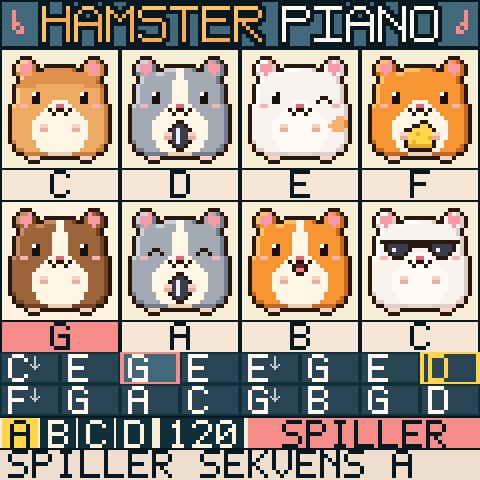
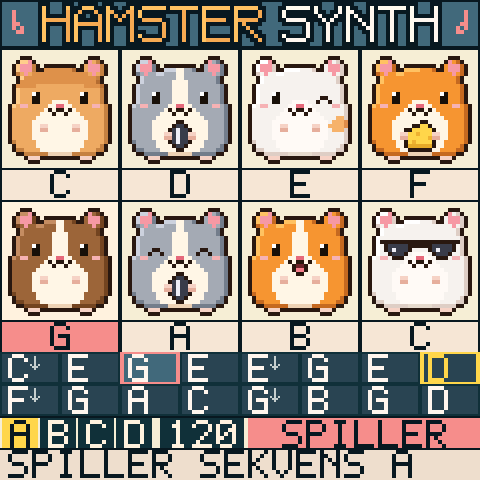
Hamster Synth: the name, not Hamster Piano; HAMSTERCORE as it was
The firmware, its logo (SYNTH in the page's letters, a Y added), the update
loader's screen, the package (build/hamstersynth.fwsc, identity FM-1_902 as
before), the demo and the docs (docs/HAMSTERSYNTH.md). Where the original web
page is meant it keeps its name, Hamster Piano.

Claude-Session: https://claude.ai/code/session_01MBzS5fpf3Tqj1GwuaURyLm

Changed region(s): [[0.5625, 0.0, 0.9375, 0.0938]]

diff --git a/tools/ham_ref.js b/tools/ham_ref.js
@@ -1,5 +1,5 @@
 // SPDX-License-Identifier: GPL-3.0-only
-// Hamster Piano's reference sound: the original web page renders each case of tests/ham/cases.json itself (its own
+// Hamster Synth's reference sound: the original web page (Hamster Piano) renders each case of tests/ham/cases.json itself (its own
 // WAV export, an OfflineAudioContext), in Chromium (Playwright). What is kept of the WAVs is their band energies
 // (tests/ham/parity.py ref DIR -> tests/ref/ham_features.json); the page itself is not in this repository.
 //

diff --git a/firmware/gen/ham_art.h b/firmware/gen/ham_art.h
@@ -1,5 +1,5 @@
 /* SPDX-License-Identifier: GPL-3.0-only */
-/* Hamster Piano's pictures. Made by tools/gen_ham_art.py of tools/ham_sprites.py: do not edit. */
+/* Hamster Synth's pictures. Made by tools/gen_ham_art.py of tools/ham_sprites.py: do not edit. */
 #pragma once
 #include <stdint.h>
 
@@ -37,8 +37,8 @@ static const uint8_t DRUM_SPR[4][DRUM_W * DRUM_H] = {
     {255,255,255,255,255,255,255,255,255,255,255,255,255,255,255,255,255,255,255,255,255,255,255,255,255,255,255,255,255,255,255,255,255,255,255,255,255,255,255,255,255,255,255,255,255,255,255,255,255,255,255,255,255,255,255,255,255,255,255,255,255,255,0,255,255,255,255,255,255,255,255,255,255,255,255,255,255,255,255,255,255,255,255,255,255,255,255,255,255,255,255,255,255,255,255,255,255,255,255,255,255,255,255,255,255,0,255,255,255,255,255,255,255,255,255,255,255,0,19,0,255,255,255,255,255,255,255,255,255,255,255,255,255,255,255,255,255,255,255,255,255,255,255,255,255,255,255,255,255,255,255,255,255,255,255,255,255,255,255,255,0,19,0,255,255,255,255,255,255,255,255,255,255,255,0,19,0,255,255,255,255,255,255,255,255,255,255,255,255,255,255,255,255,255,255,255,255,255,255,255,255,255,255,255,255,255,255,255,255,255,255,255,255,255,255,0,19,0,255,255,255,255,255,255,255,255,255,255,255,255,0,19,0,255,255,255,255,255,255,255,255,255,255,255,255,255,255,255,255,255,255,255,255,255,255,255,255,255,255,255,255,255,255,255,255,255,255,255,255,255,255,0,19,0,255,255,255,255,255,255,255,255,255,255,255,255,255,0,19,0,255,255,255,255,255,255,255,255,255,255,255,255,255,255,255,255,255,255,255,255,255,255,255,255,255,255,255,255,255,255,255,255,255,255,255,255,0,19,0,255,255,255,255,255,255,255,255,255,255,255,255,255,255,0,19,0,255,255,255,255,255,255,255,255,0,0,0,255,255,255,255,255,255,255,255,255,255,255,255,255,255,0,0,0,255,255,255,255,255,255,255,255,0,19,0,255,255,255,255,255,255,255,255,255,255,255,255,255,255,255,0,19,0,255,255,255,255,255,255,0,1,1,2,0,255,255,255,255,255,255,255,255,255,255,255,255,0,2,3,4,0,255,255,255,255,255,255,0,19,0,255,255,255,255,255,255,255,255,255,255,255,255,255,255,255,255,255,0,0,0,0,255,255,255,0,1,2,2,2,4,0,255,0,0,0,0,0,0,0,0,255,0,3,2,2,2,4,0,255,255,255,0,0,0,0,255,255,255,255,255,255,255,255,255,255,255,255,255,255,255,255,255,255,0,3,16,3,0,255,255,0,1,2,2,2,4,0,0,1,1,1,1,3,3,3,4,0,0,3,2,2,2,4,0,255,255,0,3,16,3,0,255,255,255,255,255,255,255,255,255,255,255,255,255,255,255,255,255,255,0,16,16,16,0,255,255,0,4,3,2,3,3,1,1,3,3,3,3,3,3,3,3,3,3,3,3,2,3,4,0,255,255,0,16,16,16,0,255,255,255,255,255,255,255,255,255,255,255,255,255,255,255,255,255,255,0,3,16,1,0,255,255,255,0,1,3,3,3,3,3,3,3,3,3,3,3,3,3,3,3,3,3,3,4,0,255,255,255,0,3,16,3,0,255,255,255,255,255,255,255,255,255,255,255,255,255,255,255,255,255,255,255,0,3,1,1,0,255,255,0,1,3,3,3,3,3,3,3,3,3,3,3,3,3,3,3,3,3,3,4,0,255,255,0,3,3,3,0,255,255,255,255,255,255,255,255,255,255,255,255,255,255,255,255,255,255,255,255,255,0,1,1,3,0,0,1,3,3,3,3,3,3,3,3,3,3,3,3,3,3,3,3,3,3,3,3,4,0,0,3,3,3,0,255,255,255,255,255,255,255,255,255,255,255,255,255,255,255,255,255,255,255,255,255,255,255,0,1,3,0,0,1,3,3,3,3,3,3,3,3,3,3,3,3,3,3,3,3,3,3,3,3,4,0,0,3,3,0,255,255,255,255,255,255,255,255,255,255,255,255,255,255,255,255,255,255,255,255,255,255,255,255,255,0,3,3,0,1,3,3,3,5,6,3,3,3,3,3,3,3,3,3,3,5,6,3,3,3,4,0,1,3,0,255,255,255,255,255,255,255,255,255,255,255,255,255,255,255,255,255,255,255,255,255,255,255,255,255,255,0,3,3,3,0,3,3,3,6,6,3,3,3,3,3,3,3,3,3,3,6,6,3,3,3,0,1,1,3,0,255,255,255,255,0,255,255,255,255,255,255,255,255,255,255,255,255,255,255,255,255,255,255,255,255,255,255,0,3,3,0,3,3,3,6,6,3,3,3,7,7,7,7,3,3,3,6,6,3,3,3,0,1,1,0,255,255,255,255,0,0,0,0,255,255,255,255,255,255,255,255,255,255,255,255,255,255,0,255,255,255,255,255,255,0,3,3,0,8,3,3,3,3,3,7,7,9,9,7,7,3,3,3,3,3,8,0,1,1,0,0,0,0,0,0,10,10,10,10,0,0,0,0,0,255,255,255,255,255,255,255,255,0,0,0,0,255,255,255,255,0,3,3,0,3,3,3,3,3,7,0,7,0,0,7,0,7,3,3,3,3,3,0,1,1,0,0,11,11,11,11,11,11,11,11,11,11,11,11,0,255,255,255,0,0,0,0,0,10,10,10,10,0,0,0,0,0,0,0,0,3,3,3,3,7,7,7,0,12,12,0,7,7,7,3,3,3,3,0,0,0,0,0,0,0,0,0,13,13,13,13,0,0,0,0,0,255,255,255,0,11,11,11,11,11,11,11,11,11,11,11,11,0,3,3,3,3,3,3,7,7,7,7,0,14,14,0,7,7,7,7,3,3,3,3,3,4,0,255,255,255,255,255,0,0,0,0,255,255,255,255,255,255,255,255,0,0,0,0,0,13,13,13,13,0,0,0,0,0,3,3,3,3,3,7,7,7,7,7,7,0,0,7,7,7,7,7,7,3,3,3,3,4,0,255,255,255,255,255,0,15,0,255,255,255,255,255,255,255,255,255,255,255,255,255,255,0,0,0,0,255,255,255,255,0,3,3,3,3,3,7,7,16,16,7,7,7,7,7,7,16,16,7,7,3,3,3,3,4,0,255,255,255,255,255,0,15,0,255,255,255,255,255,255,255,255,255,255,255,255,255,255,0,15,0,255,255,255,255,255,0,3,3,3,3,3,7,7,17,0,0,0,0,0,0,0,0,17,7,7,3,3,3,3,4,0,255,255,255,255,255,0,15,0,255,255,255,255,255,255,255,255,255,255,255,255,255,255,0,15,0,255,255,255,255,255,0,3,3,3,3,3,7,0,0,15,15,15,18,18,15,15,15,0,0,7,3,3,3,3,4,0,255,255,255,255,255,0,15,0,255,255,255,255,255,255,255,255,255,255,255,255,255,255,0,15,0,0,0,0,0,0,0,0,0,3,3,3,0,15,15,18,18,7,7,7,7,18,18,15,15,0,3,3,3,0,0,0,0,0,0,0,0,0,15,0,255,255,255,255,255,255,255,255,255,255,255,255,255,255,0,15,0,20,20,20,20,20,20,20,20,0,3,0,15,18,18,7,7,7,7,7,7,7,7,18,18,15,0,3,0,20,20,20,20,20,20,20,20,0,15,0,255,255,255,255,255,255,255,255,255,255,255,255,255,255,0,15,0,15,15,15,15,15,15,15,15,0,0,15,18,7,7,7,7,7,7,7,7,7,7,7,7,18,15,0,0,15,15,15,15,15,15,15,15,0,15,0,255,255,255,255,255,255,255,255,255,255,255,255,255,255,0,15,0,21,21,22,22,22,22,22,23,0,0,15,18,7,7,7,22,7,7,7,7,22,7,7,7,18,15,0,0,21,21,22,22,22,22,22,23,0,15,0,255,255,255,255,255,255,255,255,255,255,255,255,255,255,0,15,0,21,21,22,22,22,22,22,23,0,15,18,7,7,7,7,7,7,22,22,7,7,7,7,7,7,18,15,0,21,21,22,22,22,22,22,23,0,15,0,255,255,255,255,255,255,255,255,255,255,255,255,255,255,0,15,0,21,21,22,22,22,22,22,23,0,15,18,7,7,7,22,7,7,7,7,7,7,22,7,7,7,18,15,0,21,21,22,22,22,22,22,23,0,15,0,255,255,255,255,255,255,255,255,255,255,255,255,255,255,0,15,0,21,21,22,22,22,22,22,23,0,15,7,7,7,7,7,7,22,22,22,22,7,7,7,7,7,24,15,0,21,21,22,22,22,22,22,23,0,15,0,255,255,255,255,255,255,255,255,255,255,255,255,255,255,0,15,0,15,15,15,15,15,15,15,15,0,18,7,7,7,7,7,22,22,22,22,22,22,7,7,7,24,24,18,0,15,15,15,15,15,15,15,15,0,15,0,255,255,255,255,255,255,255,255,255,255,255,255,255,255,0,15,0,0,0,0,0,0,0,0,0,0,18,7,7,7,7,7,22,22,22,22,22,22,7,7,24,24,24,18,0,0,0,0,0,0,0,0,0,0,15,0,255,255,255,255,255,255,255,255,255,255,255,255,255,255,0,15,0,255,255,0,18,0,255,255,255,0,15,7,7,7,7,7,7,22,22,22,22,7,7,24,24,24,24,15,0,255,255,255,0,18,0,255,255,0,15,0,255,255,255,255,255,255,255,255,255,255,255,255,255,255,0,15,0,255,255,0,18,0,255,255,255,0,15,18,7,7,7,7,7,7,7,7,7,7,24,24,24,24,18,15,0,255,255,255,0,18,0,255,255,0,15,0,255,255,255,255,255,255,255,255,255,255,255,255,255,255,0,0,0,255,255,0,18,0,255,255,255,0,15,18,7,7,7,7,7,7,7,7,7,24,24,24,24,24,18,15,0,255,255,255,0,18,0,255,255,0,0,0,255,255,255,255,255,255,255,255,255,255,255,255,255,255,0,18,0,255,255,0,18,0,255,255,255,255,0,15,18,7,7,7,7,7,7,7,24,24,24,24,24,18,15,0,255,255,255,255,0,18,0,255,255,0,18,0,255,255,255,255,255,255,255,255,255,255,255,255,255,0,18,0,18,0,255,0,18,0,255,255,255,255,0,15,18,7,7,7,7,7,7,24,24,24,24,24,24,18,15,0,255,255,255,255,0,18,0,255,0,18,0,18,0,255,255,255,255,255,255,255,255,255,255,255,0,18,0,15,0,18,0,0,18,0,255,255,255,255,255,0,15,18,18,7,7,7,24,24,24,24,24,18,18,15,0,255,255,255,255,255,0,18,0,0,18,0,15,0,18,0,255,255,255,255,255,255,255,255,255,255,0,18,0,0,0,18,0,0,18,0,255,255,255,255,255,255,0,15,15,18,18,24,24,24,24,18,18,15,15,0,255,255,255,255,255,255,0,18,0,0,18,0,0,0,18,0,255,255,255,255,255,255,255,255,255,0,18,0,255,255,255,0,18,0,0,255,255,255,255,255,255,255,255,0,0,15,15,15,18,18,15,15,15,0,0,255,255,255,255,255,255,255,255,0,0,18,0,255,255,255,0,18,0,255,255,255,255,255,255,255,0,18,0,255,255,255,255,255,0,18,0,255,255,255,255,255,255,255,255,255,255,0,0,0,0,0,0,0,0,255,255,255,255,255,255,255,255,255,255,0,18,0,255,255,255,255,255,0,18,0,255,255,255,255,255,255,255,0,255,255,255,255,255,255,255,0,255,255,255,255,255,255,255,255,255,255,255,255,255,255,255,255,255,255,255,255,255,255,255,255,255,255,255,255,255,255,0,255,255,255,255,255,255,255,0,255,255,255,255},
 };
 /* the logo's letters, 7 x 9: a row a byte, bit 6 the left pixel */
-#define LOGO_CHARS "HAMSTERPINOC"
-static const uint8_t LOGO_FONT[12][9] = {
+#define LOGO_CHARS "HAMSTERYNOC"
+static const uint8_t LOGO_FONT[11][9] = {
     {65, 65, 65, 127, 65, 65, 65, 65, 65},
     {28, 34, 65, 65, 127, 65, 65, 65, 65},
     {65, 99, 85, 73, 65, 65, 65, 65, 65},
@@ -46,8 +46,7 @@ static const uint8_t LOGO_FONT[12][9] = {
     {127, 8, 8, 8, 8, 8, 8, 8, 8},
     {127, 64, 64, 126, 64, 64, 64, 64, 127},
     {126, 65, 65, 126, 80, 72, 68, 66, 65},
-    {126, 65, 65, 126, 64, 64, 64, 64, 64},
-    {127, 8, 8, 8, 8, 8, 8, 8, 127},
+    {65, 65, 34, 20, 8, 8, 8, 8, 8},
     {65, 97, 81, 73, 69, 67, 65, 65, 65},
     {62, 65, 65, 65, 65, 65, 65, 65, 62},
     {62, 65, 64, 64, 64, 64, 64, 65, 62},

diff --git a/tools/gen_ham_art.py b/tools/gen_ham_art.py
@@ -1,10 +1,10 @@
 #!/usr/bin/env python3
 # SPDX-License-Identifier: GPL-3.0-only
-"""Hamster Piano's pictures: firmware/gen/ham_art.h.
+"""Hamster Synth's pictures: firmware/gen/ham_art.h.
 
   the eight hamsters   drawn pixel by pixel in tools/ham_sprites.py: 26 x 27, shown 2 x 2 a pixel
   the drummer          the Tromster's, the same: 56 x 45 in four frames
-  the logo's letters   the page's 7 x 9 pixel font (H A M S T E R P I A N O C)
+  the logo's letters   the page's 7 x 9 pixel font (H A M S T E R, S Y N T H, C O R E)
   the text             a 5 x 7 pixel font of this firmware's own, with what Norwegian needs (the chip's fonts have
                        no AE, OE, AA) and the page's signs: arrows, the middle dot, the cross
 
@@ -28,8 +28,7 @@ LOGO = {
     "T": ["1111111", "0001000", "0001000", "0001000", "0001000", "0001000", "0001000", "0001000", "0001000"],
     "E": ["1111111", "1000000", "1000000", "1111110", "1000000", "1000000", "1000000", "1000000", "1111111"],
     "R": ["1111110", "1000001", "1000001", "1111110", "1010000", "1001000", "1000100", "1000010", "1000001"],
-    "P": ["1111110", "1000001", "1000001", "1111110", "1000000", "1000000", "1000000", "1000000", "1000000"],
-    "I": ["1111111", "0001000", "0001000", "0001000", "0001000", "0001000", "0001000", "0001000", "1111111"],
+    "Y": ["1000001", "1000001", "0100010", "0010100", "0001000", "0001000", "0001000", "0001000", "0001000"],
     "N": ["1000001", "1100001", "1010001", "1001001", "1000101", "1000011", "1000001", "1000001", "1000001"],
     "O": ["0111110", "1000001", "1000001", "1000001", "1000001", "1000001", "1000001", "1000001", "0111110"],
     "C": ["0111110", "1000001", "1000000", "1000000", "1000000", "1000000", "1000000", "1000001", "0111110"],
@@ -159,7 +158,7 @@ def build():
     hpal, hams = indexed(ham_sprites.hamsters())
     dpal, frames = indexed(ham_sprites.drummer())
     o = ["/* SPDX-License-Identifier: GPL-3.0-only */",
-         "/* Hamster Piano's pictures. Made by tools/gen_ham_art.py of tools/ham_sprites.py: do not edit. */",
+         "/* Hamster Synth's pictures. Made by tools/gen_ham_art.py of tools/ham_sprites.py: do not edit. */",
          "#pragma once", "#include <stdint.h>", ""]
     o.append(f"#define HAM_W {ham_sprites.W}u                               /* a hamster, its pixels (2 x 2 on the screen) */")
     o.append(f"#define HAM_H {ham_sprites.H}u")
@@ -176,9 +175,9 @@ def build():
         o.append("    {" + ",".join(str(v) for v in px) + "},")
     o.append("};")
     o.append("/* the logo's letters, 7 x 9: a row a byte, bit 6 the left pixel */")
-    o.append('#define LOGO_CHARS "HAMSTERPINOC"')
-    o.append("static const uint8_t LOGO_FONT[12][9] = {")
-    for c in "HAMSTERPINOC":
+    o.append('#define LOGO_CHARS "HAMSTERYNOC"')
+    o.append("static const uint8_t LOGO_FONT[11][9] = {")
+    for c in "HAMSTERYNOC":
         o.append("    {" + ", ".join(str(int(r, 2)) for r in LOGO[c]) + "},")
     o.append("};")
     o.append("/* the text's font, 5 x 7: a row a byte, bit 4 the left pixel; PF_CODE: each glyph's Unicode code point */")

diff --git a/firmware/src/ham_draw.h b/firmware/src/ham_draw.h
@@ -1,9 +1,9 @@
 /* SPDX-License-Identifier: GPL-3.0-only */
-/* Hamster Piano's screen: the page's look on 240 x 240. Everything is drawn into one picture in RAM (fb, the pool)
+/* Hamster Synth's screen: the page's look on 240 x 240. Everything is drawn into one picture in RAM (fb, the pool)
  * and the rows that changed are sent (fb_flush): nothing flickers, and a hamster can hop without a thought for what
  * is behind it.
  *
- *   y   0 ..  23   the logo: HAMSTER PIANO in the page's pixel letters (HAMSTERCORE on black in THALL), its notes
+ *   y   0 ..  23   the logo: HAMSTER SYNTH in the page's pixel letters (HAMSTERCORE on black in THALL), its notes
  *   y  24 .. 175   the eight hamsters, four a row, each with air around it, over its note (or the Tromster, the
  *                  song, the help)
  *   y 176 .. 207   the 16 steps, eight a row
@@ -153,7 +153,7 @@ static uint16_t dim565(uint16_t c)              /* THALL: the logo darker (the p
 static void draw_logo(uint32_t core, uint32_t dance)
 {
     static const int8_t NOTE[9][2] = {{0, 0}, {0, 1}, {0, 2}, {0, 3}, {1, 3}, {2, 4}, {2, 5}, {1, 5}, {0, 4}};
-    const char *a = "HAMSTER", *b = core ? "CORE" : "PIANO", *p;
+    const char *a = "HAMSTER", *b = core ? "CORE" : "SYNTH", *p;
     int32_t x = core ? 5 : 0, pass, i, j, word, lx, rx, ly, ry;
     uint16_t pink = core ? dim565(C_PINK) : C_PINK;
     if (core)                                   /* black metal: 2a2d2f down to 050607 */

diff --git a/tools/build.py b/tools/build.py
@@ -65,13 +65,13 @@ PRODUCT = "FM-1_940"                # FM-1 Clock: 94N, not in Dinghy's list of t
 VERSION = None                      # APP_VER for release builds
 NAME = "fm1clock"                   # the app's source (firmware/src/NAME.c) and its outputs (build/NAME.*)
 FIXED_ID = False                    # one identity for every build and release
-# --app hamster (or APP=hamster): Hamster Piano (firmware/src/hamster.c), the second firmware in this repository.
+# --app hamster (or APP=hamster): Hamster Synth (firmware/src/hamster.c), the second firmware in this repository.
 # Its identity is one for every build and release, as RoboSeq's: FM-1_902 (free in the Firmware Hub's catalogue on
 # 2026-11-23; of the form FM-1_9NN, so the installers finish an install that was cut off)
 APPS = {
     "clock": {},
-    "hamster": {"NAME": "hamsterpiano", "SOURCE": "hamster.c", "BOARD_PREFIX": {"fm1": "FM-1_902", "smk37": "SMK-37 Pro_902"},
-                "FIXED_ID": True, "DATA_FAMILY": "HAMSTER", "SCREEN_NAME": "HAMSTER PIANO", "SCREEN_COLOUR": 0xF54A},
+    "hamster": {"NAME": "hamstersynth", "SOURCE": "hamster.c", "BOARD_PREFIX": {"fm1": "FM-1_902", "smk37": "SMK-37 Pro_902"},
+                "FIXED_ID": True, "DATA_FAMILY": "HAMSTER", "SCREEN_NAME": "HAMSTER SYNTH", "SCREEN_COLOUR": 0xF54A},
 }
 SOURCE = "fm1clock.c"
 

diff --git a/firmware/src/hamster.c b/firmware/src/hamster.c
@@ -1,7 +1,7 @@
 /* SPDX-License-Identifier: GPL-3.0-only */
-/* Hamster Piano for the M-VAVE FM-1: eight hamsters that sing C D E F G A B C, a 16-step sequencer with four patterns
+/* Hamster Synth for the M-VAVE FM-1: eight hamsters that sing C D E F G A B C, a 16-step sequencer with four patterns
  * and a song of them, the Tromster (a drummer hamster with an 8-step drum machine) and THALLHAMSTERGRINDCORE (the same
- * hamsters, an octave down, through a wall of gain, at twice the tempo). A port of the web page of that name
+ * hamsters, an octave down, through a wall of gain, at twice the tempo). A port of the web page Hamster Piano
  * (v4.17): its sound in ham_engine.h, its look in ham_draw.h, its hamsters in firmware/gen/ham_art.h.
  *
  * The page is played with a finger on a screen. Here:
@@ -29,7 +29,7 @@
  *                notes out: what the hamsters sing (the channel), the drums on channel 10
  *   USB audio    what the FM-1 plays, to record it (the page's WAV export)
  */
-#define APP_NAME "HAMSTER PIANO"
+#define APP_NAME "HAMSTER SYNTH"
 #define STORE_MAGIC 0x524D4148u                 /* "HAMR": this firmware's own settings (store.h) */
 #include "platform.c"
 #include "ham_engine.h"

diff --git a/tools/gen_ham_tables.py b/tools/gen_ham_tables.py
@@ -1,6 +1,6 @@
 #!/usr/bin/env python3
 # SPDX-License-Identifier: GPL-3.0-only
-"""Hamster Piano's sound tables: firmware/gen/ham_tables.h.
+"""Hamster Synth's sound tables: firmware/gen/ham_tables.h.
 
 The original (a web page, Web Audio) builds every note from a graph of oscillators and biquad filters. All of a
 hamster's graph before its amplifier is linear and its source has eight harmonics, so the three formant filters and
@@ -168,7 +168,7 @@ def arr(name, typ, vals, per=12, fmt="{}"):
 
 def build():
     o = ["/* SPDX-License-Identifier: GPL-3.0-only */",
-         "/* Hamster Piano's sound tables. Made by tools/gen_ham_tables.py: do not edit. */",
+         "/* Hamster Synth's sound tables. Made by tools/gen_ham_tables.py: do not edit. */",
          "#pragma once", "#include <stdint.h>", ""]
     o.append(f"#define HAM_WT_N {WT_N}u")
     o.append(f"#define HAM_NOCT {NOCT}u                       /* tables for octaves {OCT_LO}..{OCT_HI} */")

diff --git a/tests/ham/parity.py b/tests/ham/parity.py
@@ -1,6 +1,6 @@
 #!/usr/bin/env python3
 # SPDX-License-Identifier: GPL-3.0-only
-"""Hamster Piano's sound against the original's: the web page renders each case of tests/ham/cases.json to a WAV
+"""Hamster Synth's sound against the original's: the web page (Hamster Piano) renders each case of tests/ham/cases.json to a WAV
 itself (tools/ham_ref.js, its own export), and what is kept of those is their energy in third-octave bands over time
 (tests/ref/ham_features.json). The firmware's engine plays the same cases on the host (tests/ham/ham_render.c).
 

diff --git a/tests/ham/ham_render.c b/tests/ham/ham_render.c
@@ -1,5 +1,5 @@
 /* SPDX-License-Identifier: GPL-3.0-only */
-/* Hamster Piano's engine alone (firmware/src/ham_engine.h, unchanged) on the host: a case of tests/ham/cases.json
+/* Hamster Synth's engine alone (firmware/src/ham_engine.h, unchanged) on the host: a case of tests/ham/cases.json
  * played by its own sequencer into a WAV, to hold against what the original page renders (tests/ham/parity.py).
  *
  *   ham_render CASE.txt OUT.wav     CASE.txt: a line a setting (tests/ham/parity.py writes it from cases.json)

diff --git a/tests/ham/demo_song.h b/tests/ham/demo_song.h
@@ -1,5 +1,5 @@
 /* SPDX-License-Identifier: GPL-3.0-only */
-/* Hamster Piano's sound demo (tools/ham_demo.sh): a song of four patterns to start from, instead of the page's A and
+/* Hamster Synth's sound demo (tools/ham_demo.sh): a song of four patterns to start from, instead of the page's A and
  * three empty ones. Only in the demo's host build (-DHAM_DEMO); the firmware starts as the page does.
  *   A  the page's own: C, C, F, G, the bass under the tune
  *   B  A minor, F, C, G: glides, an arpeggio, ratchets

diff --git a/tests/ham/check_ham.py b/tests/ham/check_ham.py
@@ -1,6 +1,6 @@
 #!/usr/bin/env python3
 # SPDX-License-Identifier: GPL-3.0-only
-"""Hamster Piano on the host (tests/host.c), by what it sends over MIDI: every note a hamster sings goes out.
+"""Hamster Synth on the host (tests/host.c), by what it sends over MIDI: every note a hamster sings goes out.
 
   check_ham.py notes LOG WANT [STEP_MS]   the note-ons on channel 1, in order, are WANT (comma separated); with
                                           STEP_MS: the first sixteen that far apart (+- 12 ms)

diff --git a/tools/ham_sprites.py b/tools/ham_sprites.py
@@ -1,5 +1,5 @@
 # SPDX-License-Identifier: GPL-3.0-only
-"""Hamster Piano's pictures, drawn here pixel by pixel: the eight hamsters and the Tromster's drummer.
+"""Hamster Synth's pictures, drawn here pixel by pixel: the eight hamsters and the Tromster's drummer.
 
 Each is drawn on a grid of its own pixels (a hamster 26 x 24, the drummer 56 x 45); the screen shows each of them as
 2 x 2 of its own, as the logo's letters and the text. One ink for every outline, the light from the upper left: a
